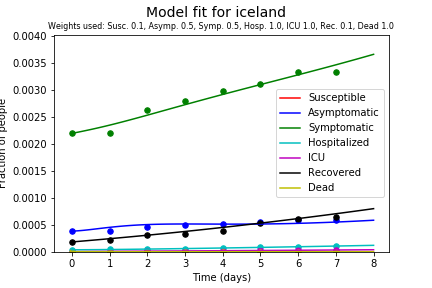
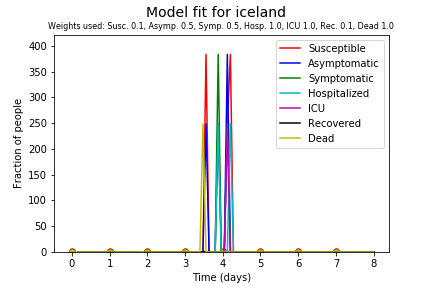
eerste pogingen incomplete data

diff --git a/function_lib_new.py b/function_lib_new.py
@@ -151,14 +151,13 @@ def data_loader(filename,pop_size):
         data = list(csv.reader(csvfile))
    
         data = np.array(data)
-
-
+    
     data = np.delete(data,[0,1,7,9],axis=1) #delete country, date and tests and comments
     data = np.delete(data,[0],axis=0) #delete header
     data = np.transpose(data)
     data = data.astype(np.float)
     data = np.divide(data,pop_size)
-    sum_categories = np.sum(data,axis=0)
+    sum_categories = np.nansum(data,axis=0)
     sum_categories = np.reshape(sum_categories,(1,data.shape[1]))
     sum_categories = 1-sum_categories
     
@@ -166,7 +165,7 @@ def data_loader(filename,pop_size):
   
     return(data)
 
-def parameters(input_dict,country_data):
+def parameters(input_dict,country_data, incomplete=False):
     params = Parameters() #special type of parameters as defined by the lmfit module
     params.add('r_meeting1', value=input_dict["r_meeting1"], vary=True, min=0)
     params.add('r_meeting2', value=input_dict["r_meeting2"], vary=True, min=0)
@@ -176,20 +175,37 @@ def parameters(input_dict,country_data):
     params.add('r_meeting2b', value=input_dict["r_meeting2b"], vary=True, min=0)
     params.add('r_meeting3b', value=input_dict["r_meeting3b"], vary=True, min=0)
     params.add('r_meeting4b', value=input_dict["r_meeting4b"], vary=True, min=0)
-    params.add('r_infection1', value=input_dict["r_infection1"], vary=True,min=0)
-    params.add('r_infection2', value=input_dict["r_infection2"], vary=True,min=0)
-    params.add('r_infection3', value=input_dict["r_infection3"], vary=True,min=0)
-    params.add('r_infection4', value=input_dict["r_infection4"], vary=True,min=0)
-    params.add('r_sym', value=input_dict["r_sym"], vary=True,min=0)
-    params.add('r_hos', value=input_dict["r_hos"], vary=True,min=0)
-    params.add('r_d0', value=input_dict["r_d0"], vary=True, min =0)
-    params.add('r_d1', value=input_dict["r_d1"], vary=True,min=0)
-    params.add('r_d2', value=input_dict["r_d2"], vary=False,min=0)
-    params.add('r_im1', value=input_dict["r_im1"], vary=True,min=0)
-    params.add('r_im2', value=input_dict["r_im2"], vary=True,min=0)
-    params.add('r_im3', value=input_dict["r_im3"], vary=True,min=0)
-    params.add('r_ic', value=input_dict["r_ic"], vary=True,min=0)
-    params.add('r_rehos', value=input_dict["r_rehos"], vary=True,min=0)
+    if incomplete:
+        std_dict = file_to_dict('stable_parameters.txt')
+        params.add('r_infection1', value=std_dict["r_infection1"], vary=False)
+        params.add('r_infection2', value=std_dict["r_infection2"], vary=False)
+        params.add('r_infection3', value=std_dict["r_infection3"], vary=False)
+        params.add('r_infection4', value=std_dict["r_infection4"], vary=False)
+        params.add('r_sym', value=std_dict["r_sym"], vary=False)
+        params.add('r_hos', value=std_dict["r_hos"], vary=False)
+        params.add('r_d0', value=std_dict["r_d0"], vary=False)
+        params.add('r_d1', value=std_dict["r_d1"], vary=False)
+        params.add('r_d2', value=std_dict["r_d2"], vary=False)
+        params.add('r_im1', value=std_dict["r_im1"], vary=False)
+        params.add('r_im2', value=std_dict["r_im2"], vary=False)
+        params.add('r_im3', value=std_dict["r_im3"], vary=False)
+        params.add('r_ic', value=std_dict["r_ic"], vary=False)
+        params.add('r_rehos', value=std_dict["r_rehos"], vary=False)
+    else:
+        params.add('r_infection1', value=input_dict["r_infection1"], vary=True,min=0)
+        params.add('r_infection2', value=input_dict["r_infection2"], vary=True,min=0)
+        params.add('r_infection3', value=input_dict["r_infection3"], vary=True,min=0)
+        params.add('r_infection4', value=input_dict["r_infection4"], vary=True,min=0)
+        params.add('r_sym', value=input_dict["r_sym"], vary=True,min=0)
+        params.add('r_hos', value=input_dict["r_hos"], vary=True,min=0)
+        params.add('r_d0', value=input_dict["r_d0"], vary=True, min =0)
+        params.add('r_d1', value=input_dict["r_d1"], vary=True,min=0)
+        params.add('r_d2', value=input_dict["r_d2"], vary=False,min=0)
+        params.add('r_im1', value=input_dict["r_im1"], vary=True,min=0)
+        params.add('r_im2', value=input_dict["r_im2"], vary=True,min=0)
+        params.add('r_im3', value=input_dict["r_im3"], vary=True,min=0)
+        params.add('r_ic', value=input_dict["r_ic"], vary=True,min=0)
+        params.add('r_rehos', value=input_dict["r_rehos"], vary=True,min=0)
     params.add('n0_susc', value=country_data[0,0], vary=False)
     params.add('n0_inf1', value=country_data[0,1], vary=False)
     params.add('n0_inf2', value=country_data[0,2], vary=False)

diff --git a/infectionModel_v3.0.py b/infectionModel_v3.0.py
@@ -19,7 +19,7 @@ if not os.path.exists('figures'):
 colors = ['r', 'b', 'g', 'c', 'm', 'k', 'y']
 
 # what country/region?
-country = 'sicilia' #pick 'iceland' for Iceland
+country = 'iceland' #pick 'iceland' for Iceland
 datafile = country + '_data.csv'
 parameterfile = country + '_parameters.txt'
 input_dict = file_to_dict(parameterfile) 
@@ -48,7 +48,7 @@ t_measured = np.linspace(0, amount_of_days - 1, amount_of_days)
 
 
 # fit model
-result = minimize(residual, params, args=(t_measured, country_data), method='leastsq',nan_policy='raise')  # leastsq nelder
+result = minimize(residual, params, args=(t_measured, country_data), method='leastsq',nan_policy='omit')  # leastsq nelder
 # check results of the fit
 data_fitted = g(np.linspace(0., amount_of_days, 100), n0, result.params)
 # display fitted statistics
